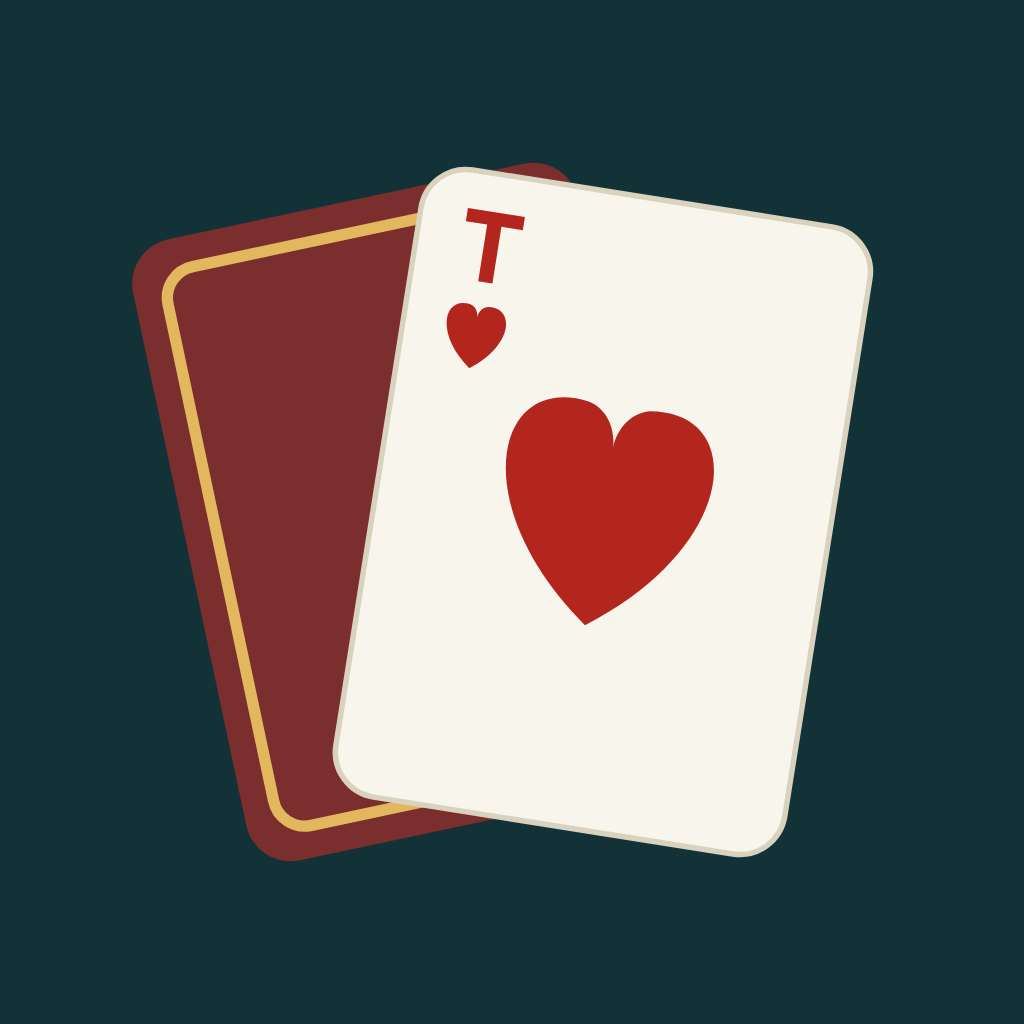
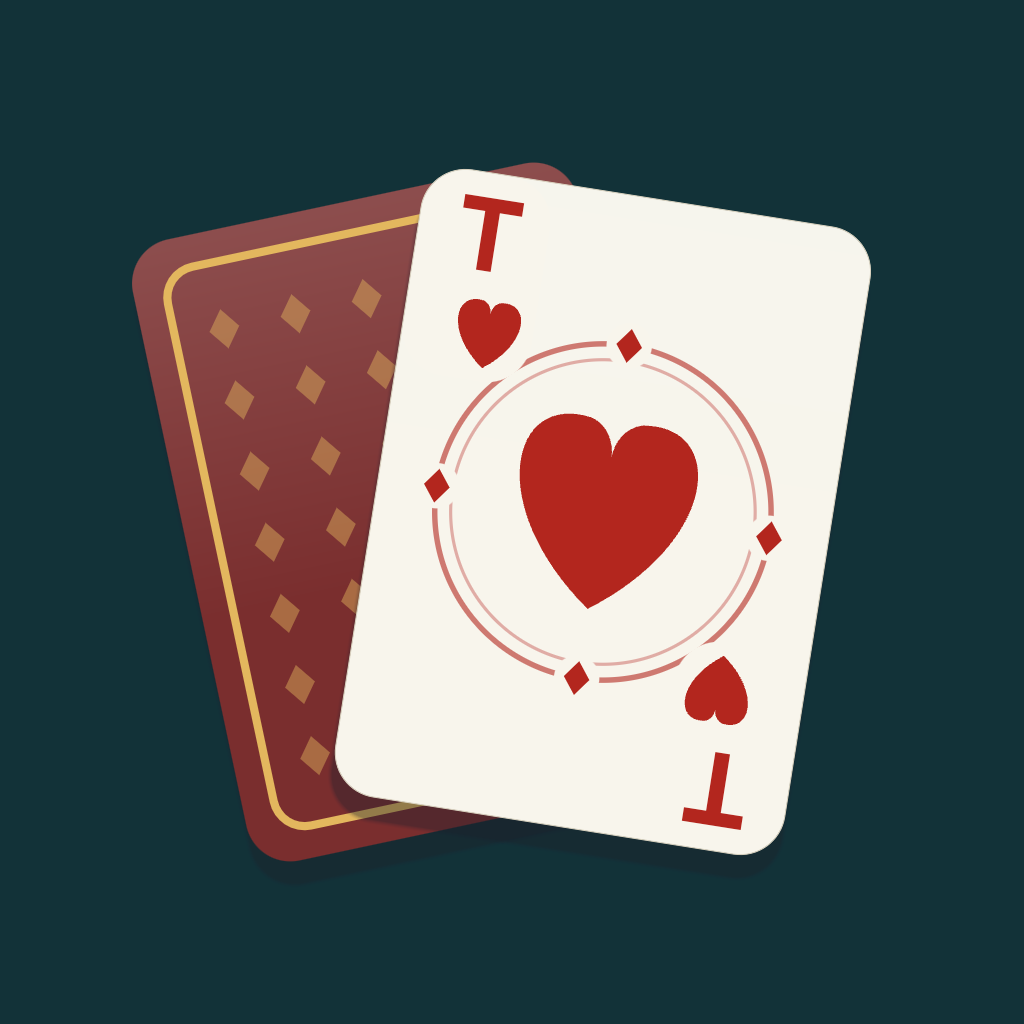
Значок, заставка, значок магазина и баннеры — новый туз червей поверх «Бордо»
assets/icon.png, adaptive-icon.png, splash-icon.png (паспорт assets/LICENSES.md),
store/graphics/icon-512.png, feature-1024x500.png (с него сайт делает
durak-feature.webp), og-1200x630.png — снято со страницы ?icon=1. README, журнал.

Claude-Session: https://claude.ai/code/session_013TkbiXwSbkfdZ3SPy1HubC

diff --git a/assets/LICENSES.md b/assets/LICENSES.md
@@ -1,23 +1,12 @@
-# Паспорт картинок и звуков «Козыря»
+# Паспорт картинок «Козыря»
 
-Значок и заставка нарисованы кодом: `bun tools/art/icon.ts` (ADR устава 0023, правило 3; ADR 0010).
-Генераторов изображений нет. Шрифт индекса — Onest 700, SIL Open Font License 1.1
+Значок и заставка нарисованы кодом самой игры — туз червей и рубашка «Бордо» (`makeFaces`, `makeBack`) на
+странице веб-сборки `?icon=1`: `EXPO_OFFLINE=1 npm run export:web && bun tools/art/icon.ts` (ADR устава 0023,
+правило 3; ADR 0010). Генераторов изображений нет. Шрифт индекса — Onest 700, SIL Open Font License 1.1
 (`@expo-google-fonts/onest`, текст лицензии — `assets/fonts/Onest-OFL.txt`).
 
 | Файл | Размер | SHA-256 |
 |---|---|---|
[3 lines of base64/hex data omitted]
-
-## Звуки
-
-Звуки стола — записи **CC0 1.0** из набора Kenney «Casino Audio» 1.1
-([OpenGameArt](https://opengameart.org/content/54-casino-sound-effects-cards-dice-chips), автор — Kenney Vleugels,
-kenney.nl; в архиве `License.txt`: «License (Creative Commons Zero, CC0)»). Файлы `assets/sounds/*.wav` собирает
-`tools/sound/recorded.py`; откуда каждый, отрезок и SHA-256 архива и его файлов — `assets/sounds/SOURCES.md`.
-Синтезированных звуков нет.
-
-| Исходник | Лицензия | SHA-256 |
-|---|---|---|
[4 lines of base64/hex data omitted]

diff --git a/docs/journal/2026-11.md b/docs/journal/2026-11.md
@@ -734,3 +734,12 @@
   от устава, ADR устава 0012, по образцу 0020: журнал генерации, одобрение владельца, портрет кодом — запасной);
   ники, совпадающие с именами ботов, не запрещаем; число карт вчетвером — цифрой; в быстрой игре — по уровню, как
   есть (пункт меню в будущем можно назвать «Сыграть с ботом» или «Сыграть с тренером»).
+
+### 12.11.2026 — значок, заставка и баннер на новый туз червей
+
+- Владелец: «обнови иконку игры, заставку при загрузке и durak-feature.webp на сайте на новый дизайн карты туз червей,
+  рубашку можно оставить Бордо». Значок, адаптивный значок, заставка, значок магазина 512, баннер `feature` (сайт
+  берёт `durak-feature.webp` из него, `store/site/page.*.md`) и картинка для ссылок `og` теперь рисуются самой игрой —
+  `makeFaces` и `makeBack` на странице веб-сборки `?icon=1` (`src/render/IconSheet.tsx`), а не отдельным SVG, который
+  повторял старую карту. Снимают `tools/art/icon.ts` (после `export:web`) и `tools/store/shots.ts --graphics`;
+  паспорт — `assets/LICENSES.md`. Композиция прежняя: рубашка −12°, туз +9°.

diff --git a/README.md b/README.md
@@ -34,6 +34,8 @@
 - Примерить рубашку за рекламу можно и прямо на итоге партии с ботами: одна спокойная строка с маленькой рубашкой —
   «Следующую партию — в рубашке «Иней»: примерить за рекламу». Только по нажатию и только если «Без рекламы» на этом
   итоге не предлагается.
+- Новый значок игры и заставка при загрузке — туз червей нового рисунка поверх рубашки «Бордо», те же карты, что за
+  столом. Баннер магазина и сайта — тоже.
 
 ### 0.11.0 — соперники с именами и лицами, новые карты, рубашки, пол
 
